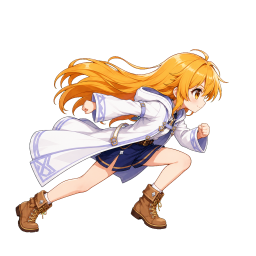
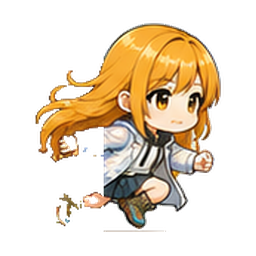
art: recut dash and wall slide hold poses

diff --git a/scripts/extract-hold-poses.py b/scripts/extract-hold-poses.py
@@ -1,0 +1,135 @@
+"""Deterministically extract the approved dash and climb pose cells from demo.png."""
+
+from collections import deque
+from pathlib import Path
+
+from PIL import Image
+
+
+ROOT = Path(__file__).resolve().parent.parent
+SOURCE = ROOT / "art-src" / "refs" / "demo.png"
+OUTPUT_DIR = ROOT / "public" / "assets" / "char"
+CANVAS_SIZE = 256
+FOOT_BASELINE = 232
+
+
+def remove_connected_background(image: Image.Image) -> Image.Image:
+    """Remove only pale pixels connected to the crop boundary; preserve the white coat."""
+    rgba = image.convert("RGBA")
+    pixels = rgba.load()
+    width, height = rgba.size
+    visited = bytearray(width * height)
+    queue: deque[tuple[int, int]] = deque()
+
+    def is_pale_background(x: int, y: int) -> bool:
+        red, green, blue, _ = pixels[x, y]
+        return red >= 222 and green >= 222 and blue >= 218 and max(red, green, blue) - min(red, green, blue) <= 24
+
+    def enqueue(x: int, y: int) -> None:
+        index = y * width + x
+        if not visited[index] and is_pale_background(x, y):
+            visited[index] = 1
+            queue.append((x, y))
+
+    for x in range(width):
+        enqueue(x, 0)
+        enqueue(x, height - 1)
+    for y in range(height):
+        enqueue(0, y)
+        enqueue(width - 1, y)
+
+    while queue:
+        x, y = queue.popleft()
+        pixels[x, y] = (*pixels[x, y][:3], 0)
+        for next_x, next_y in ((x - 1, y), (x + 1, y), (x, y - 1), (x, y + 1)):
+            if 0 <= next_x < width and 0 <= next_y < height:
+                enqueue(next_x, next_y)
+
+    return rgba
+
+
+def erase_climb_ladder(image: Image.Image) -> None:
+    """Erase the brown ladder at the left of the crop without touching the character."""
+    pixels = image.load()
+    for y in range(image.height):
+        for x in range(image.width):
+            red, green, blue, alpha = pixels[x, y]
+            if alpha and 12 <= x <= 54:
+                pixels[x, y] = (red, green, blue, 0)
+
+
+def erase_dash_speed_lines(image: Image.Image) -> None:
+    """Remove only the desaturated motion lines left of the dash character."""
+    pixels = image.load()
+    for y in range(image.height):
+        for x in range(min(62, image.width)):
+            red, green, blue, alpha = pixels[x, y]
+            saturation = max(red, green, blue) - min(red, green, blue)
+            if alpha and saturation <= 55:
+                pixels[x, y] = (red, green, blue, 0)
+
+
+def retain_largest_component(image: Image.Image) -> None:
+    """Discard detached source-sheet residue after the targeted cleanup passes."""
+    alpha = image.getchannel("A")
+    width, height = image.size
+    visited = bytearray(width * height)
+    largest: list[int] = []
+
+    for start_y in range(height):
+        for start_x in range(width):
+            start = start_y * width + start_x
+            if visited[start] or alpha.getpixel((start_x, start_y)) == 0:
+                continue
+
+            visited[start] = 1
+            queue: deque[tuple[int, int]] = deque([(start_x, start_y)])
+            component = [start]
+            while queue:
+                x, y = queue.popleft()
+                for next_x, next_y in ((x - 1, y), (x + 1, y), (x, y - 1), (x, y + 1)):
+                    index = next_y * width + next_x
+                    if 0 <= next_x < width and 0 <= next_y < height and not visited[index] and alpha.getpixel((next_x, next_y)):
+                        visited[index] = 1
+                        queue.append((next_x, next_y))
+                        component.append(index)
+            if len(component) > len(largest):
+                largest = component
+
+    pixels = image.load()
+    keep = set(largest)
+    for y in range(height):
+        for x in range(width):
+            if y * width + x not in keep:
+                red, green, blue, _ = pixels[x, y]
+                pixels[x, y] = (red, green, blue, 0)
+
+
+def create_pose(name: str, crop_box: tuple[int, int, int, int], scale: float, erase_ladder: bool = False, erase_speed_lines: bool = False) -> None:
+    crop = SOURCE_IMAGE.crop(crop_box)
+    cutout = remove_connected_background(crop)
+    if erase_ladder:
+        erase_climb_ladder(cutout)
+    if erase_speed_lines:
+        erase_dash_speed_lines(cutout)
+
+    width = round(cutout.width * scale)
+    height = round(cutout.height * scale)
+    resized = cutout.resize((width, height), Image.Resampling.LANCZOS)
+    alpha = resized.getchannel("A")
+    bbox = alpha.getbbox()
+    if bbox is None:
+        raise RuntimeError(f"{name} extraction contains no opaque pixels")
+
+    canvas = Image.new("RGBA", (CANVAS_SIZE, CANVAS_SIZE), (0, 0, 0, 0))
+    content_bottom = bbox[3]
+    content_width = bbox[2] - bbox[0]
+    paste_x = (CANVAS_SIZE - content_width) // 2 - bbox[0]
+    paste_y = FOOT_BASELINE - content_bottom
+    canvas.alpha_composite(resized, (paste_x, paste_y))
+    canvas.save(OUTPUT_DIR / f"neon_{name}.png")
+
+
+SOURCE_IMAGE = Image.open(SOURCE)
+create_pose("dash", (404, 895, 579, 1053), 1.48, erase_speed_lines=True)
+create_pose("wall_slide", (40, 890, 195, 1055), 1.42, erase_ladder=True)